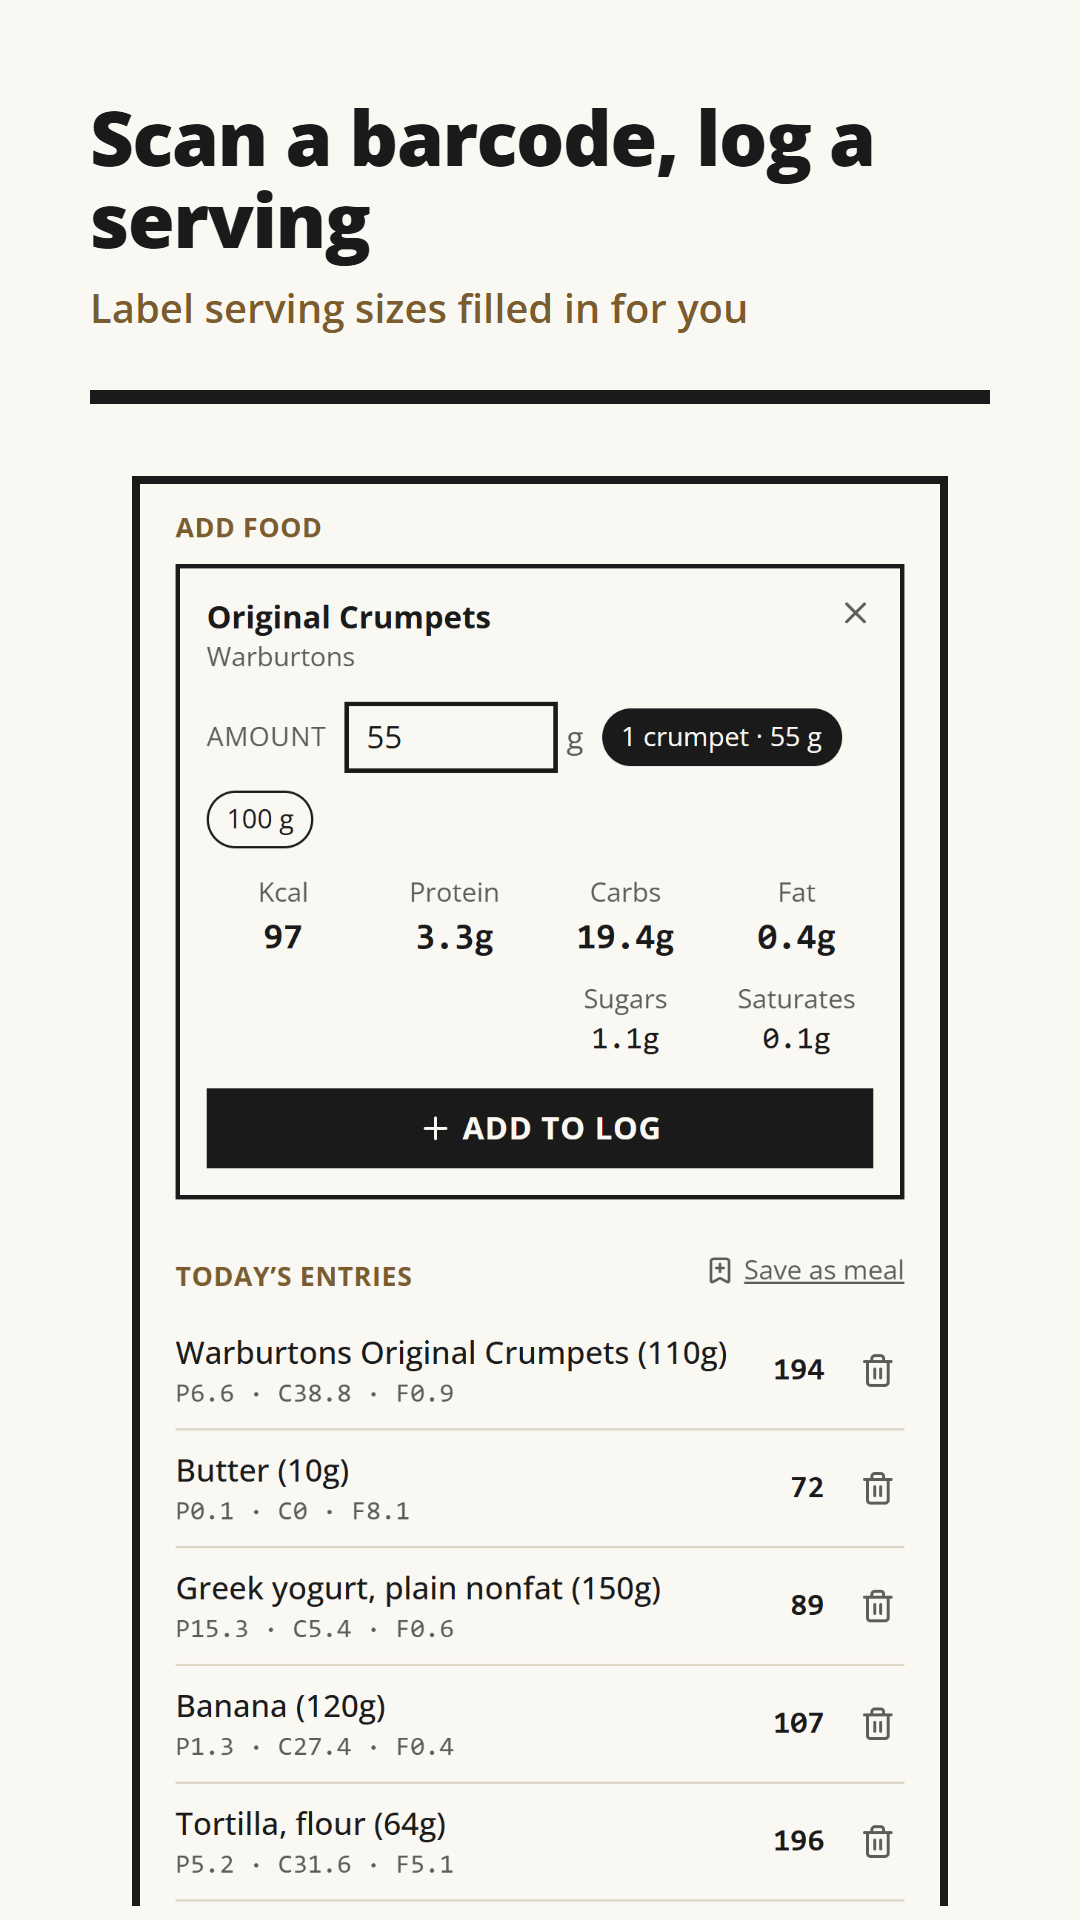
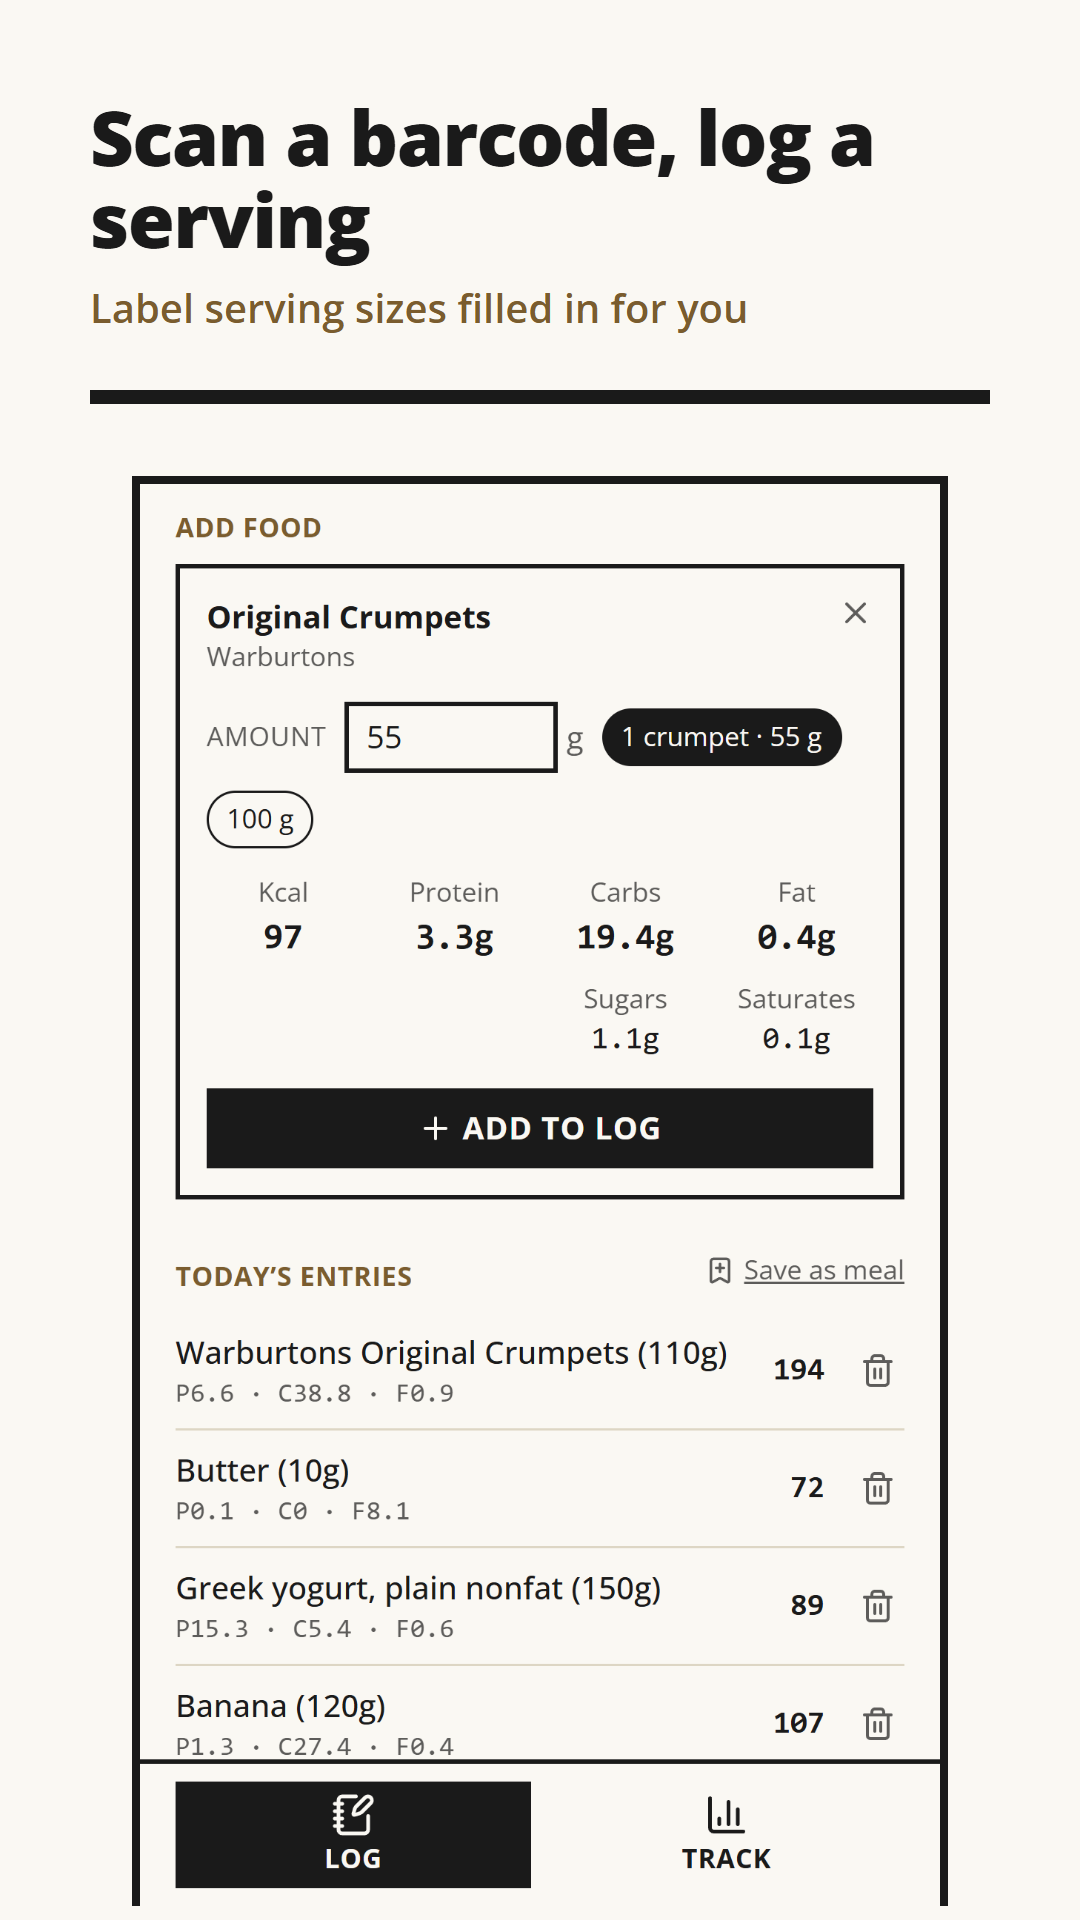
Move page switching to a bottom bar and use a cog for settings
Replace the Food log / Progress switch under the masthead with a bar
fixed to the bottom of the screen: Log and Track, each an icon with a
text label, the current page filled in. It hides while a text field
has focus so it doesn't ride on top of the on-screen keyboard, and the
page leaves room so it never covers the footer.

The display settings button is now a cog labelled 'Settings'. Store
screenshots regenerated; bump to 1.2.1.

Changed region(s): [[0.1528, 0.9062, 0.825, 1.0]]

diff --git a/src/CalorieTracker.tsx b/src/CalorieTracker.tsx
@@ -1,6 +1,6 @@
 import { useState, useMemo } from "react";
 import { useLiveQuery } from "dexie-react-hooks";
-import { Calculator, ChevronLeft, ChevronRight, Flame, Type } from "lucide-react";
+import { Calculator, ChevronLeft, ChevronRight, Flame, Settings } from "lucide-react";
 import AboutFooter from "./components/AboutFooter";
 import BackupControls from "./components/BackupControls";
 import DisplaySettings from "./components/DisplaySettings";
@@ -8,7 +8,7 @@ import EntryList from "./components/EntryList";
 import FoodSearch from "./components/FoodSearch";
 import GoalCalculator from "./components/GoalCalculator";
 import Progress from "./components/Progress";
-import Segmented from "./components/Segmented";
+import BottomNav, { BOTTOM_NAV_HEIGHT, type Page } from "./components/BottomNav";
 import { DEFAULT_GOAL, getEntriesForDate, getGoal, getGoalHistory, setGoal, type LogEntry } from "./db";
 import { addDays, formatDateKey, todayKey, type DateKey } from "./lib/dates";
 import { goalPercent, sumMacros } from "./lib/nutrition";
@@ -18,7 +18,7 @@ import { ALERT, GOOD, INK, PAPER, TRACK } from "./theme";
 const NO_ENTRIES: LogEntry[] = [];
 
 export default function CalorieTracker() {
-  const [view, setView] = useState<"log" | "progress">("log");
+  const [view, setView] = useState<Page>("log");
   const [date, setDate] = useState<DateKey>(todayKey);
   const isToday = date === todayKey();
 
@@ -51,7 +51,8 @@ export default function CalorieTracker() {
   return (
     <div
       className="min-h-full w-full flex items-start justify-center p-4 sm:p-8"
-      style={{ background: PAPER, color: INK, fontFamily: "var(--font-body)" }}
+      // Leave room so the fixed bottom bar never covers the end of the page.
+      style={{ background: PAPER, color: INK, fontFamily: "var(--font-body)", paddingBottom: BOTTOM_NAV_HEIGHT + 16 }}
     >
       <div className="w-full max-w-md">
         {/* Masthead */}
@@ -71,23 +72,12 @@ export default function CalorieTracker() {
               type="button"
               onClick={() => setShowDisplay((v) => !v)}
               className="opacity-70 hover:opacity-100 p-1 -m-1 self-center"
-              aria-label="Display and reading settings"
+              aria-label="Settings"
               aria-expanded={showDisplay}
             >
-              <Type size={20} />
+              <Settings size={20} />
             </button>
           </div>
-        </div>
-        <div className="my-2">
-          <Segmented
-            label="Page"
-            value={view}
-            onChange={setView}
-            options={[
-              { value: "log", label: "Food log" },
-              { value: "progress", label: "Progress" },
-            ]}
-          />
         </div>
         {view === "log" && (
         <div className="flex items-center justify-between mb-1">
@@ -118,7 +108,7 @@ export default function CalorieTracker() {
 
         {showDisplay && <DisplaySettings onClose={() => setShowDisplay(false)} />}
 
-        {view === "progress" ? (
+        {view === "track" ? (
           <Progress
             onOpenDay={(day) => {
               setDate(day);
@@ -232,6 +222,14 @@ export default function CalorieTracker() {
         <BackupControls />
         <AboutFooter />
       </div>
+
+      <BottomNav
+        page={view}
+        onChange={(page) => {
+          setView(page);
+          window.scrollTo(0, 0);
+        }}
+      />
     </div>
   );
 }

diff --git a/src/components/BottomNav.tsx b/src/components/BottomNav.tsx
@@ -1,0 +1,76 @@
+import { useEffect, useState } from "react";
+import type { LucideIcon } from "lucide-react";
+import { ChartColumn, NotebookPen } from "lucide-react";
+import { INK, PAPER } from "../theme";
+
+export type Page = "log" | "track";
+
+const PAGES: { id: Page; label: string; icon: LucideIcon }[] = [
+  { id: "log", label: "Log", icon: NotebookPen },
+  { id: "track", label: "Track", icon: ChartColumn },
+];
+
+/** Height of the bar, so the page can leave room for it. */
+export const BOTTOM_NAV_HEIGHT = 64;
+
+/** Page switcher fixed to the bottom of the screen, within thumb reach. Icons always have labels. */
+function isTextField(el: EventTarget | null): boolean {
+  if (!(el instanceof HTMLElement)) return false;
+  if (el instanceof HTMLTextAreaElement || el.isContentEditable) return true;
+  return el instanceof HTMLInputElement && !["checkbox", "radio", "button", "submit", "file"].includes(el.type);
+}
+
+/**
+ * True while a text field has focus, i.e. while the on-screen keyboard is up. The bar
+ * hides then, so it doesn't sit on top of the keyboard and cover search results.
+ */
+function useTyping(): boolean {
+  const [typing, setTyping] = useState(false);
+  useEffect(() => {
+    const onFocusIn = (e: FocusEvent) => setTyping(isTextField(e.target));
+    const onFocusOut = (e: FocusEvent) => setTyping(isTextField(e.relatedTarget));
+    document.addEventListener("focusin", onFocusIn);
+    document.addEventListener("focusout", onFocusOut);
+    return () => {
+      document.removeEventListener("focusin", onFocusIn);
+      document.removeEventListener("focusout", onFocusOut);
+    };
+  }, []);
+  return typing;
+}
+
+export default function BottomNav({ page, onChange }: { page: Page; onChange: (page: Page) => void }) {
+  const typing = useTyping();
+  if (typing) return null;
+  return (
+    <nav
+      aria-label="Pages"
+      className="fixed inset-x-0 bottom-0 z-10 flex justify-center"
+      style={{
+        background: PAPER,
+        borderTop: `2px solid ${INK}`,
+        // Clear the home indicator in browsers; the Android app already pads around system bars.
+        paddingBottom: "var(--safe-area-inset-bottom, env(safe-area-inset-bottom, 0px))",
+      }}
+    >
+      <div className="w-full max-w-md flex gap-2 px-4 py-2" style={{ height: BOTTOM_NAV_HEIGHT }}>
+        {PAGES.map(({ id, label, icon: Icon }) => {
+          const active = page === id;
+          return (
+            <button
+              key={id}
+              type="button"
+              onClick={() => onChange(id)}
+              aria-current={active ? "page" : undefined}
+              className="flex-1 flex flex-col items-center justify-center gap-0.5 text-xs font-bold uppercase tracking-wide"
+              style={{ background: active ? INK : "transparent", color: active ? PAPER : INK }}
+            >
+              <Icon size={20} aria-hidden />
+              {label}
+            </button>
+          );
+        })}
+      </div>
+    </nav>
+  );
+}
